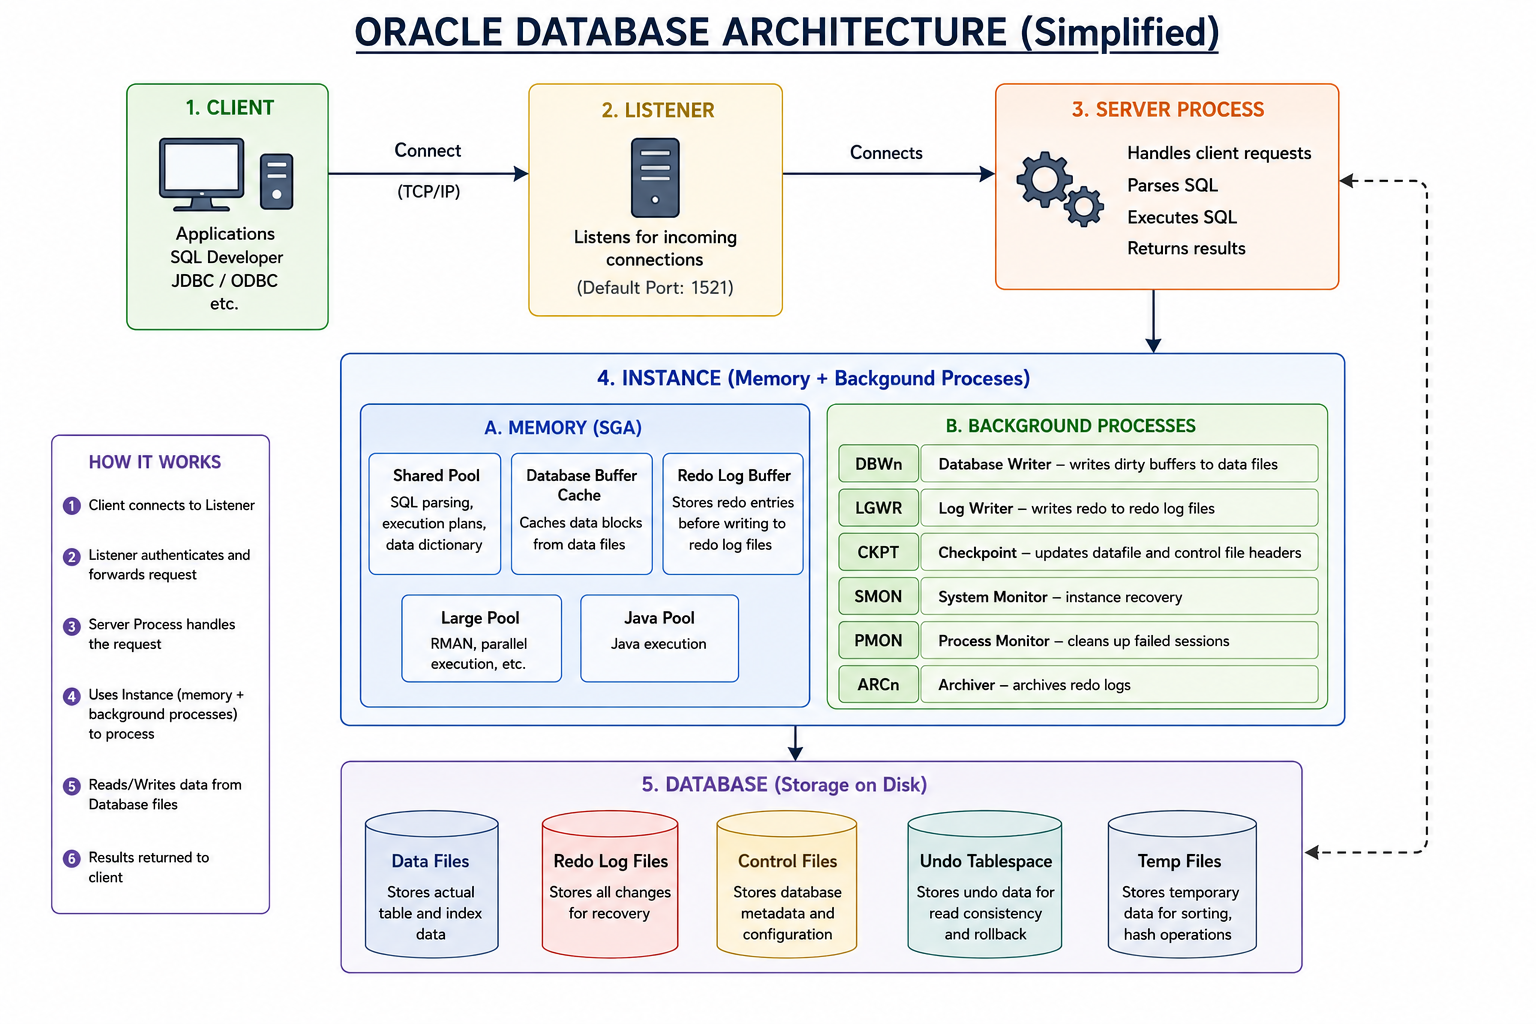
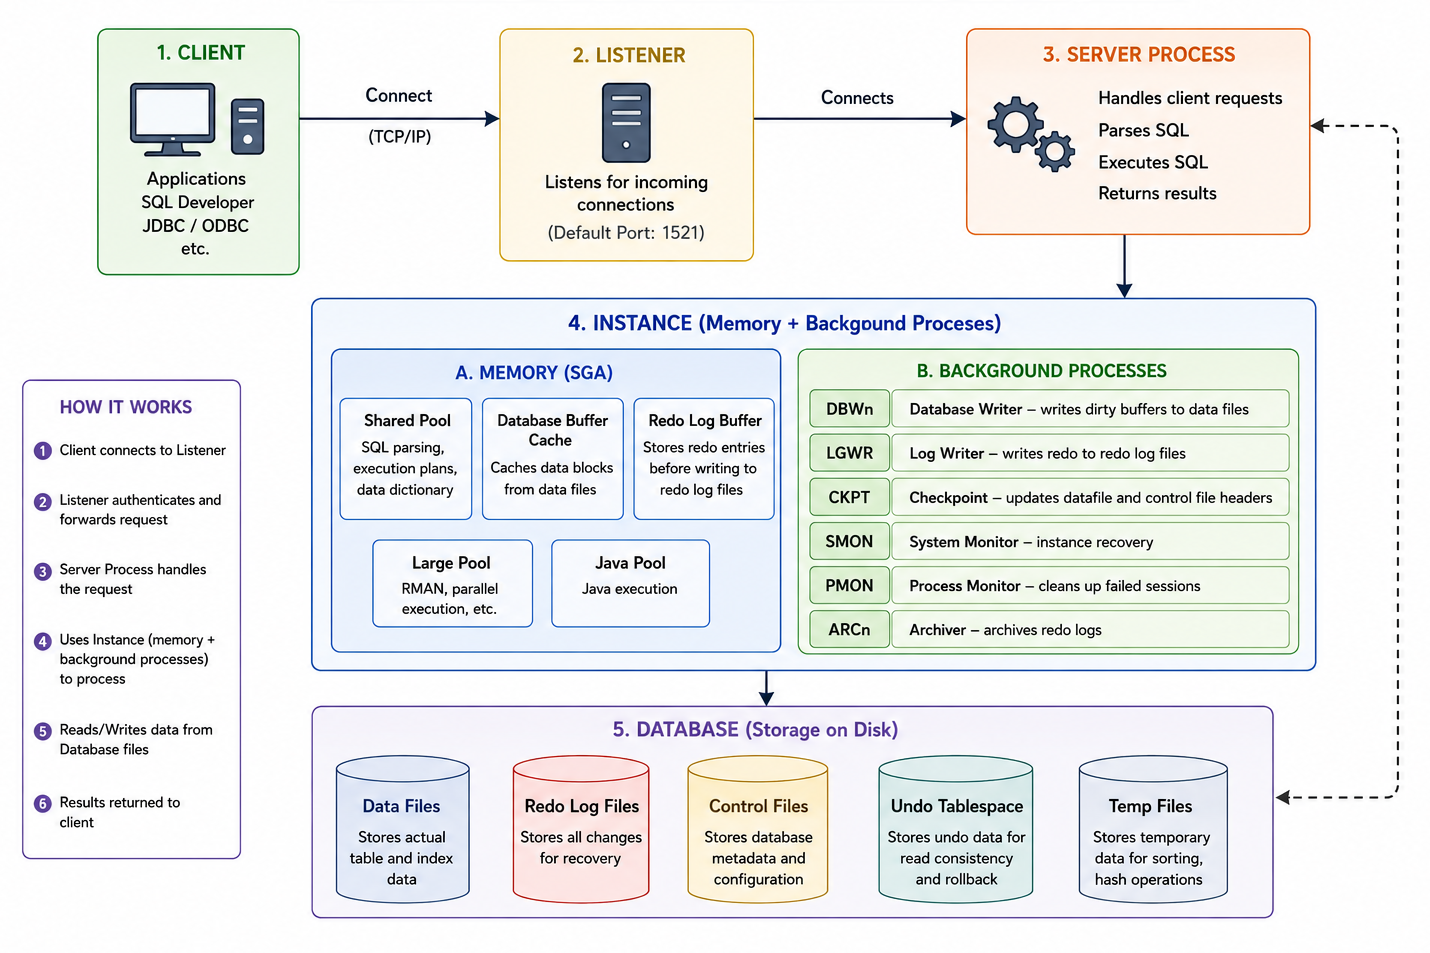
architecture updated

diff --git a/README.md b/README.md
@@ -51,6 +51,33 @@ Container Database (CDB)
 └── Additional PDBs (Optional)
 ```
 
+**CDB$ROOT vs PDB$SEED vs XEPDB1**
+
+| Feature           | CDB$ROOT                       | PDB$SEED                       | XEPDB1                            |
+| ----------------- | ------------------------------ | ------------------------------ | --------------------------------- |
+| Type              | Root Container                 | Seed Pluggable Database        | User Pluggable Database           |
+| Purpose           | Manages entire CDB system      | Template for creating new PDBs | Application/database for users    |
+| Role              | System administration          | Copy source for new PDBs       | Working database                  |
+| Data Dictionary   | Full global dictionary         | Minimal template dictionary    | Local dictionary (PDB-level view) |
+| User Type Allowed | Common users only (C##)        | No users allowed (read-only)   | Local users allowed               |
+| Example Users     | C##ADMIN, C##DBA               | Not applicable                 | JAKIR, HR, APP_USER               |
+| Read/Write        | Read + system control          | Read-only                      | Read + write                      |
+| Modifiable        | Yes (DBA operations only)      | No (locked template)           | Yes (normal operations)           |
+| Creation Purpose  | Created automatically with CDB | Auto-created with CDB          | Created from SEED or manually     |
+| Usage             | Internal DB management         | Cloning new PDBs               | Application development           |
+
+> **Visual Structure**
+
+```bash
+CDB (Container Database)
+│
+├── CDB$ROOT   → System brain (DBA only) like Control room of a building
+│
+├── PDB$SEED   → Template (read-only) like Blueprint of apartments
+│
+└── XEPDB1     → Working database (YOU use this) like Actual apartment where people live
+```
+
 **Database Architecture Layer - Modern**
 
 | Layer                 | Component                | Description                                           |
@@ -74,6 +101,8 @@ Container Database (CDB)
 | ----------- | ------------ | --------------------- | -------- |
 | Common User | CDB$ROOT     | Must start with `C##` | C##ADMIN |
 | Local User  | PDB (XEPDB1) | No prefix required    | JAKIR    |
+
+**traditional Oracle architecture**
 
 ![Architecture of Oracle](/img/oracle-architecture-simplified.png)
 